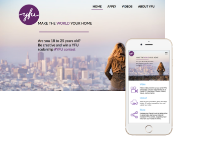
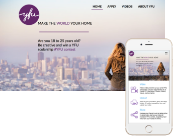
portfolio section some style added

diff --git a/index.html b/index.html
@@ -16,7 +16,7 @@
             <header>
                 <!-- logo name magic -->
                 <div>
-                    <ul class="text hide">
+                    <ul class="text hidden">
                         <li>M</li>
                         <li class="ghost">A</li>
                         <li class="ghost">S</li>
@@ -38,7 +38,7 @@
 
             </header>
             <div class="home-container">
-                <img src="images/home/masa-wu-landing-page-img.jpg" alt="home full screen background image" class="home-img">
+               <div class="home-img">
                 <div class="home-text-box">
                     <h1 class="home-text-intro">PASSIONATE DESIGNER & DEVELOPER</h1>
                     <div class="slideshow-container">
@@ -75,7 +75,7 @@
                 <a href="#about">READ MORE</a>
             </div>
             </div>
-
+        </div>
         </section>
         <section class="about">
             <div class="resume">
@@ -105,7 +105,8 @@
                     </div>
                     <div class="bottom-box">
                         <h4>ViewFinders<br> Web & App</h4>
-                        <h5>Xd / Ps / Ai / Pr</h5>
+                        <hr class="hide">
+                        <h5 class="hide">Xd / Ps / Ai / Pr</h5>
                     </div>
                 </div>
                 <div class="huset active">
@@ -114,10 +115,10 @@
                     </div>
                     <div class="bottom-box">
                         <h4>Huset Web App</h4>
-                        <h5>Ai / Xd / Ps / Pr</h5>
-                        <h5>HTML / CSS / JS / JSON</h5>
-                        <hr class="active">
-                        <a class="active" href="">Read More</a>
+                        <hr class="">
+                        <h5 class="">Ai / Xd / Ps / Pr</h5>
+                        <h5 class="">HTML / CSS / JS / JSON</h5>
+                        <a class="" href="">Read More</a>
                     </div>
                 </div>
                 <div class="yfu">
@@ -127,7 +128,8 @@
                     <div class="bottom-box">
                         <h4>YFU Video
                             <br>Marketing Campaigne</h4>
-                        <h5>Ai / Pr / Ae / Ps</h5>
+                             <hr class="hide">
+                        <h5 class="hide">Ai / Pr / Ae / Ps</h5>
                     </div>
                 </div>
             </div>

diff --git a/css/style.css b/css/style.css
@@ -22,21 +22,29 @@ h3, p{
     font-weight: 100;
     padding: 5px;
 }
-h4{
-
+h4, h5{
+font-family: "avenir", san-serif;
+    font-size: 20px;
+    color: #ffffff;
+    font-weight: 100;
+    text-align: center
+}
+h5{
+    font-size: 14px;
 }
 p{
     font-size: 14px;
 }
 a{
     text-decoration: none;
+    color: #fff;
 }
 /* header */
 header{
     background: linear-gradient(45deg, rgba(2,204,186,0.7), rgba(2,179,228,0.7));
     width: 100vw;
     position: fixed;
-    padding: 30px 30px;
+    padding: 20px 30px;
 }
 nav {
     display: inline-block;
@@ -92,13 +100,13 @@ nav a:hover{
 .home-container, about, portfolio, contact{
     height: 100vh;
 }
-.home-container img{
-    max-width: 95vw;
-    position: absolute;
-    top: 85px;
-    left: 0;
-    right: 0;
-    margin: auto;
+.home-img{
+   width: 95vw;
+    height: 100vh;
+    margin: 0 auto;
+    background: url(../images/home/masa-wu-landing-page-img.jpg) no-repeat fixed center;
+    background-size: cover;
+
 }
 .home-text-box{
     height:30vh;
@@ -220,4 +228,65 @@ q {font-style: italic;
 .about-me *{
     margin-top: 20px;
     max-width: 550px;
+}
+
+/* portfolio*/
+
+.heading{
+    padding: 20px;
+}
+
+.porfolio-content{
+    display: flex;
+    justify-content: space-around;
+}
+.viewfinders, .huset, .yfu{
+    background: linear-gradient(45deg, rgba(2,204,186,0.1), rgba(2,179,228,0.1));
+    padding-top: 30px;
+    width: 320px;
+}
+.white-circle{
+    width:240px;
+    height:240px;
+    background-color: #fff;
+    border-radius: 150px;
+    position: relative;
+    margin: 0 auto;
+}
+.white-circle img{
+    position: absolute;
+    top:0;
+    bottom: 0;
+    left: 0;
+    right: 0;
+    margin: auto;
+}
+.bottom-box{
+    background-color: #414143;
+    padding: 15px;
+    margin-top: 20px;
+}
+.bottom-box a{
+    font-family: "avenir", sans-serif;
+    font-size: 14px;
+    font-weight: 100;
+    text-align: center;
+    display: block;
+    margin: 10px 0;
+}
+.hide{
+    opacity: 0;
+}
+@media only screen and (max-width: 700px) {
+   .home-text-box{
+    height:45vh;
+    width: 90vw;}
+    .mini-footer{
+        left:0;
+    }
+    .mini-footer a, .email-me{
+        display: none;
+    }
+    .about, .porfolio-content{
+        flex-direction: column;}
 }
